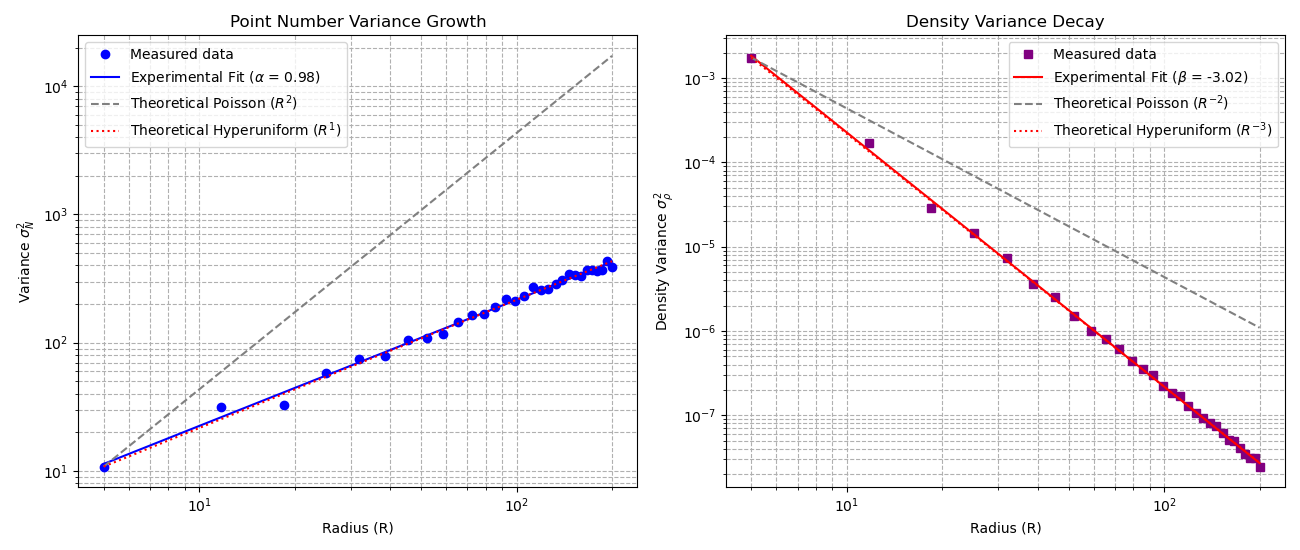
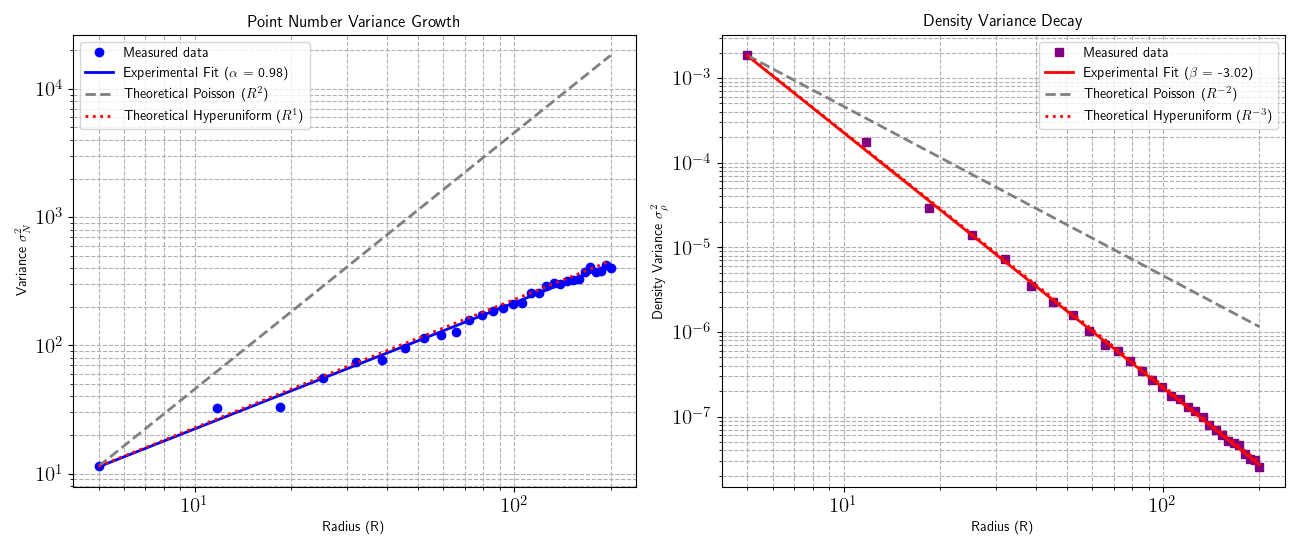
Renderizado LaTeX de figuras

diff --git a/scripts/test_hyper2D.py b/scripts/test_hyper2D.py
@@ -3,7 +3,22 @@
 import argparse
 import sys
 import numpy as np
+import matplotlib
 import matplotlib.pyplot as plt
+
+
+params = {'lines.linewidth': 2.0,
+        'axes.labelsize': 10,
+        'font.size': 10,
+        'legend.fontsize': 10,
+        'xtick.labelsize': 15,
+        'ytick.labelsize': 15,
+        'figure.subplot.left':0.01,
+        'figure.subplot.right':0.99,
+        'figure.subplot.top':0.95,
+        'figure.subplot.bottom':0.05,
+        'text.usetex': True}
+matplotlib.rcParams.update(params)
 
 def read_pgm_p2(filename):
     """Reads a PGM file in text mode (P2) ignoring comments."""
@@ -120,25 +135,25 @@ def main():
 
     # Plot 1: Variance of Number of Points
     plt.subplot(1, 2, 1)
-    plt.loglog(radii, var_N, 'o', color='blue', label='Measured data')
+    plt.loglog(radii, var_N, 'o', color='blue', label=r'Measured data')
     plt.loglog(radii, fit_N, 'b-', label=fr'Experimental Fit ($\alpha$ = {alpha:.2f})')
     plt.loglog(radii, (radii**2) * (var_N[0] / (radii[0]**2)), '--', color='gray', label=r'Theoretical Poisson ($R^2$)')
     plt.loglog(radii, radii * (var_N[0] / radii[0]), ':', color='red', label=r'Theoretical Hyperuniform ($R^1$)')
-    plt.xlabel('Radius (R)')
+    plt.xlabel(r'Radius (R)')
     plt.ylabel(r'Variance $\sigma_N^2$')
-    plt.title('Point Number Variance Growth')
+    plt.title(r'Point Number Variance Growth')
     plt.legend()
     plt.grid(True, which="both", ls="--")
 
     # Plot 2: Density Variance
     plt.subplot(1, 2, 2)
-    plt.loglog(radii, var_rho, 's', color='purple', label='Measured data')
+    plt.loglog(radii, var_rho, 's', color='purple', label=r'Measured data')
     plt.loglog(radii, fit_rho, 'r-', label=fr'Experimental Fit ($\beta$ = {beta:.2f})')
     plt.loglog(radii, (radii**-2) * (var_rho[0] / (radii[0]**-2)), '--', color='gray', label=r'Theoretical Poisson ($R^{-2}$)')
     plt.loglog(radii, (radii**-3) * (var_rho[0] / (radii[0]**-3)), ':', color='red', label=r'Theoretical Hyperuniform ($R^{-3}$)')
-    plt.xlabel('Radius (R)')
+    plt.xlabel(r'Radius (R)')
     plt.ylabel(r'Density Variance $\sigma_{\rho}^2$')
-    plt.title('Density Variance Decay')
+    plt.title(r'Density Variance Decay')
     plt.legend()
     plt.grid(True, which="both", ls="--")
 